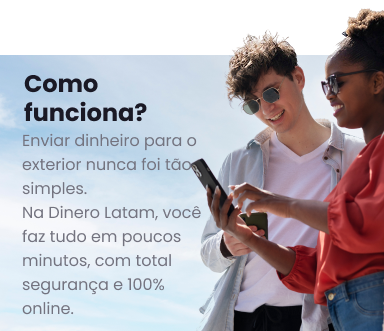
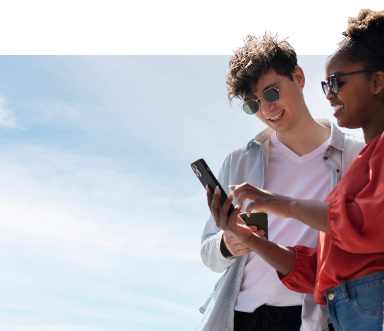
feat: implementar versão mobile das páginas Home e Como nos Conheceu

diff --git a/src/components/layout/Footer/Footer.tsx b/src/components/layout/Footer/Footer.tsx
@@ -88,7 +88,7 @@ export default function Footer() {
             </footer>
 
             {/* FOOTER MOBILE */}
-            <footer className="md:hidden bg-[#03a5a8] text-white py-20 px-8 relative z-0">
+            <footer className="md:hidden bg-[#03a5a8] text-white pt-20 pb-10 px-8 relative z-0 overflow-hidden">
                 <div className="flex flex-col items-center text-center space-y-8">
                     <h3 className="text-2xl font-bold">{t("company")}</h3>
 
@@ -118,14 +118,18 @@ export default function Footer() {
                         </a>
                     </div>
 
-                    <div className="text-xs text-white/80 space-x-2 pt-4">
+                    <div className="text-xs text-white/80 space-x-2 pt-4 pb-6">
                         <a href="#" className="underline">{t("privacy")}</a>
                         <span>•</span>
                         <a href="#" className="underline">{t("terms")}</a>
                     </div>
                 </div>
-                <div className="w-full absolute bottom-0 left-1/2 -translate-x-1/2 text-5xl font-extrabold opacity-50 text-btnsecondary text-center z-[-1] pointer-events-none leading-none tracking-tight">
-                    <span className="block translate-y-[15%]">DINERO LATAM</span>
+
+                {/* Marca d’água corrigida */}
+                <div className="absolute inset-0 flex items-end justify-center pointer-events-none z-[-1]">
+                    <span className="text-5xl font-extrabold opacity-50 text-btnsecondary text-center leading-none tracking-tight mb-[-10px]">
+                        DINERO LATAM
+                    </span>
                 </div>
             </footer>
         </>

diff --git a/src/app/como-funciona/page.tsx b/src/app/como-funciona/page.tsx
@@ -46,10 +46,12 @@ export default function HowItWorksSection() {
              bg-[url('/images/destaques/Banner_Como_Funciona_Mobile.png')]
              md:bg-[url('/images/destaques/Banner_Como_Funciona.png')]"
             >
-                <div className="relative z-10 h-full min-h-[300px] md:aspect-[3/1]">
+                <div className="relative z-10 h-full min-h-[350px] md:aspect-[3/1]">
                     <div className="h-full w-full max-w-7xl mx-auto px-4 md:px-20 flex flex-col justify-center items-start text-left">
-                        <div className="w-md mt-30">
-                            <h2 className="text-3xl font-bold text-black mb-2">{t("title")}</h2>
+                        <div className="w-[200px] mt-20 md:w-[448px]">
+                            <h2 className="text-[24px] md:text-[30px] font-bold text-black mb-2">
+                                {t("title")}
+                            </h2>
                             <p className="text-primary font-normal">{t("description")}</p>
                         </div>
                     </div>

diff --git a/src/components/layout/Banner/Banner.tsx b/src/components/layout/Banner/Banner.tsx
@@ -35,10 +35,10 @@ export default function Banner() {
     };
 
     return (
-        <section className=" bg-secondary text-white py-12 px-4 sm:px-6 mt-[120px] min-h-[476px]"
+        <section className=" bg-secondary text-white py-12 px-4 sm:px-6 mt-[110px] min-h-[476px]"
             style={{ backgroundImage: "url(/images/banner/background_header.png)" }}>
             <Container>
-                <div className="flex flex-col lg:flex-row items-center lg:items-center justify-center lg:justify-between gap-10 mt-[40px]">
+                <div className="flex flex-col lg:flex-row items-center lg:items-center justify-center lg:justify-between gap-10 lg:mt-[50px] lg:mt-0">
                     {/* Texto */}
                     <div className="flex flex-col gap-4 lg:text-left">
                         <div className="text-2xl sm:text-3xl font-semibold">

diff --git a/src/app/page.tsx b/src/app/page.tsx
@@ -243,7 +243,7 @@ export default function Home() {
       </section>
 
       {/* FAQ */}
-      <section className="mt-20 mb-20">
+      <section className="mt-20">
         <Container>
           <div className="grid grid-cols-1 md:grid-cols-2 gap-y-10 md:gap-6">
             <div className="w-full flex flex-col gap-4 max-w-[500px] p-4">
@@ -258,7 +258,7 @@ export default function Home() {
               />
             </div>
             <div className="w-full p-4">
-              <dl className="divide-y divide-primary">
+              <dl className="divide-y divide-[#C1C1C1]">
                 {faqs.map((faq) => (
                   <Disclosure key={faq.question} as="div" className="py-6 first:pt-0 last:pb-0">
                     <dt>
